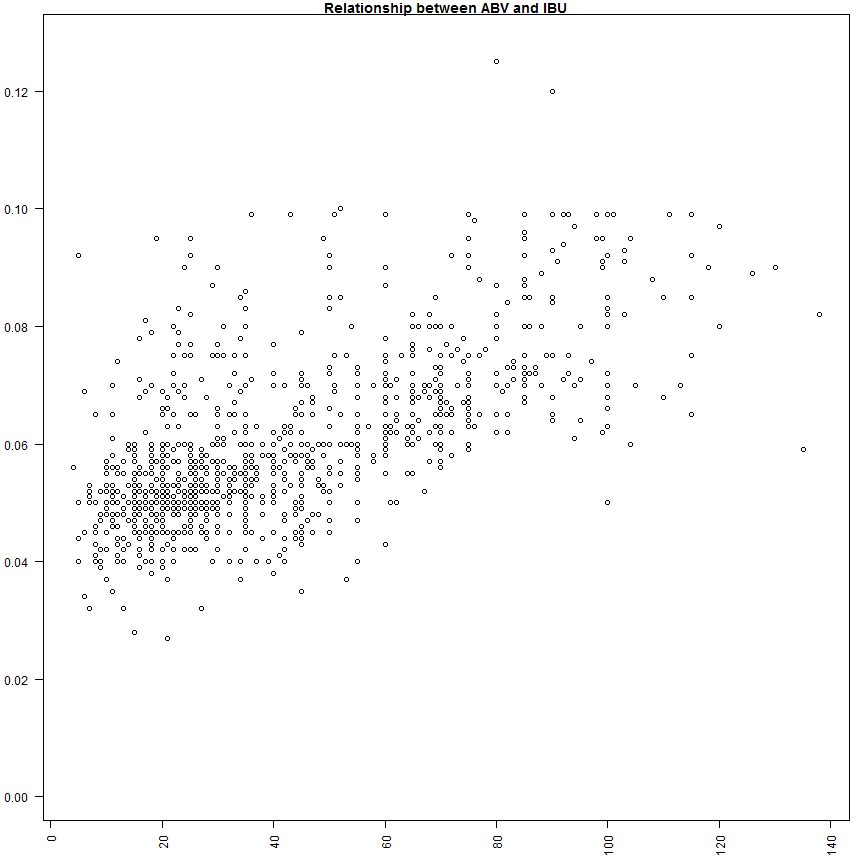
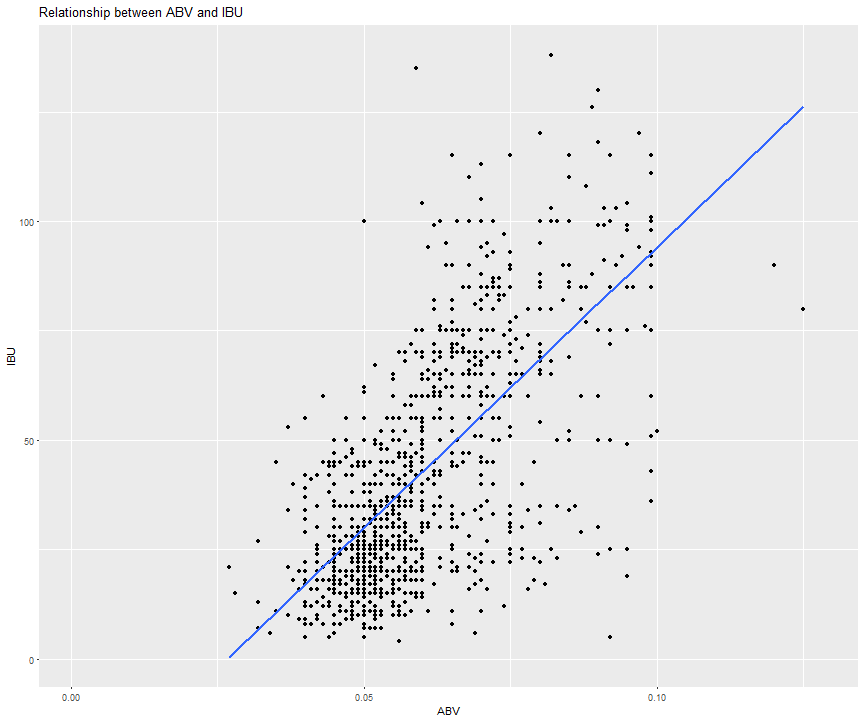
fixing scatter plot

diff --git a/Beer Case Study.md b/Beer Case Study.md
@@ -297,4 +297,4 @@ summary_ABV
 Scatter Plot
 ========================================================
 
-![plot of chunk unnamed-chunk-10](Beer Case Study-figure/unnamed-chunk-10-1.png)![plot of chunk unnamed-chunk-10](Beer Case Study-figure/unnamed-chunk-10-2.png)
+![plot of chunk unnamed-chunk-10](Beer Case Study-figure/unnamed-chunk-10-1.png)
